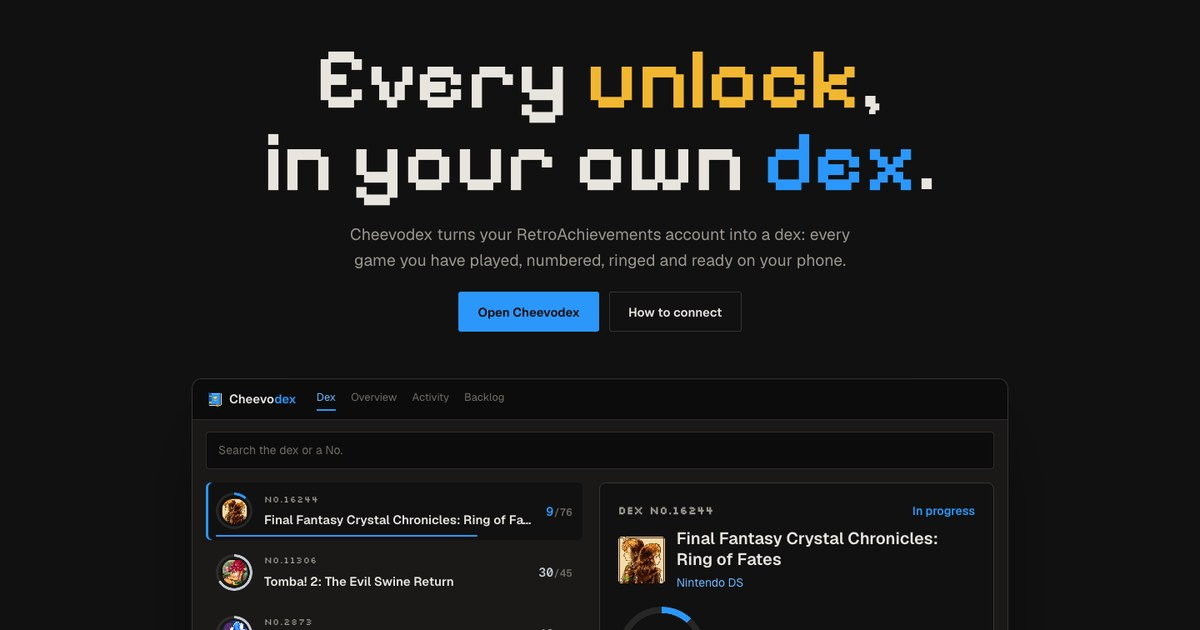
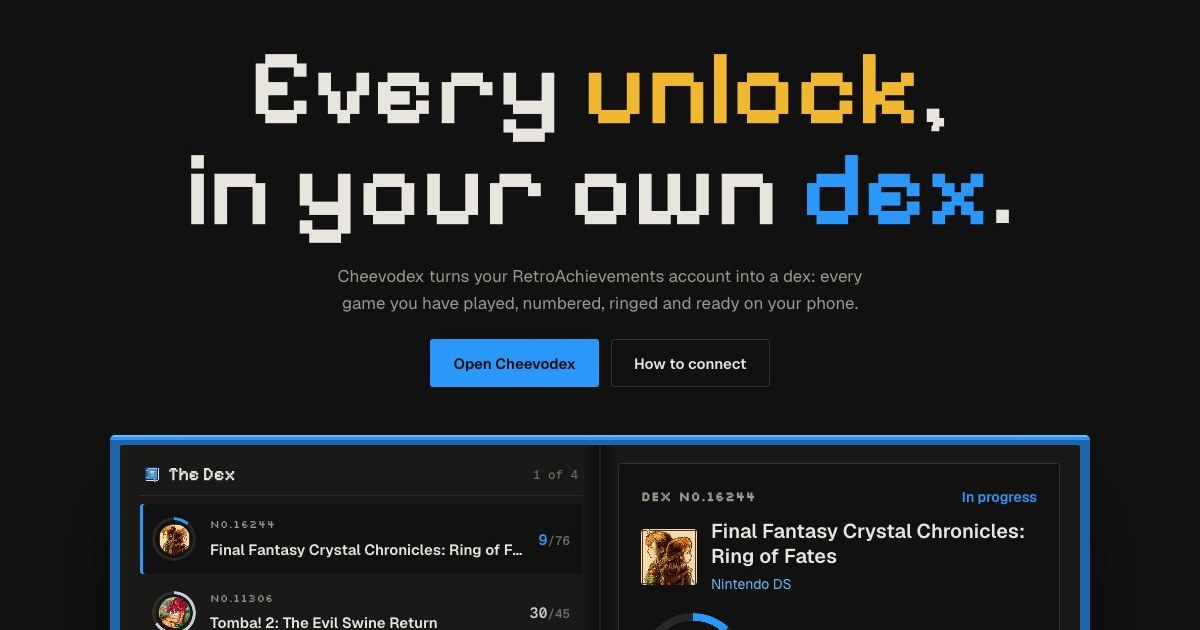
feat: redesign on the real screens: codex hero, Dex loupe, lit Setup path
- Hero: a bigger headline, the working dex set in an open codex (the
  app's mark opened up) in place of the mock app bar and search box,
  and three facts under it (key stays in the browser, no server, free)
- The Dex: the real screenshot with four marks and, on wide screens, a
  loupe in its corner showing each mark at full size from the same
  picture; it tours until one is picked. Phones show the phone
  screenshot, already at full size
- The Record: the three states are rings on a line to pick from
- The Recap: the real year panel (unlocks, streaks, heatmap) under the rows
- The Setup: one path down the middle that lights step by step on scroll
- A progression path beside the page on wide screens, and the nav marks
  the band on screen
- 3px corners like the app, no pills; the pixel face no longer joins
  f and i ("official" read as "oRicial")
- README: no ticker and no badge wall, the new moving parts, and how to
  re-measure the loupe's marks after retaking a screenshot
- Share image from the new hero

Claude-Session: https://claude.ai/code/session_01EeEDGzBuo9DGmypehCTFJi

diff --git a/src/styles/home.css b/src/styles/home.css
@@ -102,17 +102,6 @@
 .head-center { display: flex; flex-direction: column; align-items: center; gap: 18px; text-align: center; margin-bottom: 64px; }
 .head-center p.big { max-width: 30ch; }
 
-/* The Dex: the desktop screen across the band, the counts set into its corner */
-.screen { position: relative; margin: 0; }
-.screen-shot { width: 100%; border-radius: 8px; box-shadow: 0 40px 80px -30px rgb(4 20 40 / 0.6); }
-.screen-panel { display: grid; grid-template-columns: repeat(3, minmax(0, 1fr)); margin: 16px 0 0; background: #07121e; color: var(--ink); border-radius: 6px; overflow: hidden; }
-@media (min-width: 960px) { .screen-panel { position: absolute; left: -24px; bottom: -40px; width: 420px; margin: 0; box-shadow: 0 24px 48px -16px rgb(0 0 0 / 0.6); } }
-.screen-panel > div { padding: 16px 18px; border-left: 1px solid rgb(232 229 223 / 0.12); }
-.screen-panel > div:first-child { border-left: 0; }
-.screen-panel dt { color: var(--ink-2); font-size: 13px; }
-.screen-panel dd { margin: 6px 0 0; font: 600 36px/1 var(--mono); }
-.screen-panel > div:nth-child(1) dd { color: var(--accent-hi); } .screen-panel > div:nth-child(2) dd { color: var(--silver); } .screen-panel > div:nth-child(3) dd { color: var(--gold); }
-.screen-panel figcaption { grid-column: 1 / -1; padding: 12px 18px 14px; border-top: 1px solid rgb(232 229 223 / 0.12); color: var(--ink-2); font-size: 14px; }
 
 /* The Record: a manual page */
 .manual { display: grid; grid-template-columns: minmax(0, 1fr); gap: 32px; align-items: center; }
@@ -224,14 +213,6 @@
 /* B: the app frame around the working dex */
 .demo-app { max-width: 980px; margin: 0 auto; background: var(--box); border: 1px solid var(--line-2); border-radius: 12px; overflow: hidden; box-shadow: 0 40px 80px -30px rgb(0 0 0 / 0.85); }
 .demo-app .demo { background: none; border: 0; box-shadow: none; border-radius: 0; }
-.demo-bar { display: flex; align-items: center; gap: 24px; padding: 12px 18px; background: var(--bar); border-bottom: 1px solid var(--line); }
-.demo-brand { display: inline-flex; align-items: center; gap: 8px; font-weight: 700; font-size: 15px; }
-.demo-brand img { image-rendering: pixelated; }
-.demo-brand b { color: var(--accent); }
-.demo-tabs { display: flex; gap: 18px; font-size: 13px; color: var(--ink-3); }
-.demo-tabs .on { color: var(--accent-hi); box-shadow: 0 2px 0 var(--accent); padding-bottom: 3px; }
-@media (max-width: 560px) { .demo-tabs .wide { display: none; } .demo-bar { gap: 14px; } }
-.demo-search { margin: 14px 16px 0; padding: 10px 14px; border: 1px solid var(--line); border-radius: 4px; background: var(--well); color: var(--ink-3); font-size: 14px; }
 .demo-row .ring > img { position: relative; width: calc(100% - var(--w, 6px) * 2 - 6px); aspect-ratio: 1; border-radius: 50%; object-fit: cover; image-rendering: pixelated; }
 .demo-id2 { display: flex; gap: 14px; align-items: center; }
 .demo-id2 > span { display: flex; flex-direction: column; gap: 4px; min-width: 0; }
@@ -416,3 +397,122 @@
 /* The close */
 .close-cta { display: flex; flex-wrap: wrap; justify-content: center; gap: 12px; }
 .close-note { color: var(--ink-3); font-size: 15px; }
+
+/* ══ Redesign ══ */
+/* Geometry: the app's own 3px corners, no pills */
+.record, .demo-rec, .moved, .fp, .demo-row, .kl-node, .contents-swipe li, .cline, .shot, .fp-try input, .fp-run { border-radius: 3px; }
+
+/* The cover: a bigger headline, the dex as an open codex, three facts under it */
+.hero h1 { font-size: clamp(44px, 8.9vw, 128px); max-width: none; }
+.demo-app { position: relative; overflow: visible; padding: 10px 10px 14px; border: 0; border-radius: 5px 5px 4px 4px;
+            background: linear-gradient(180deg, #6cb8ff 0 2px, #2c97fa 2px 5px, #1d64a8 5px calc(100% - 7px), #123a63 0); }
+.demo-app .demo { position: relative; padding: 16px; gap: 20px; background: var(--box); border-radius: 2px; }
+@media (min-width: 860px) {
+    .demo-app .demo { grid-template-columns: minmax(0, 1fr) minmax(0, 1fr); gap: 36px; padding: 18px 20px; }
+    .demo-app .demo::after { content: ''; position: absolute; left: 50%; top: 0; bottom: 0; width: 34px; transform: translateX(-50%); pointer-events: none;
+                             background: linear-gradient(90deg, transparent, rgb(0 0 0 / 0.5) 46%, rgb(232 229 223 / 0.05) 50%, rgb(0 0 0 / 0.5) 54%, transparent); }
+}
+.codex-l { min-width: 0; display: flex; flex-direction: column; }
+.page-h { display: flex; justify-content: space-between; align-items: center; gap: 12px; padding: 2px 4px 12px; margin-bottom: 8px; border-bottom: 1px solid var(--line); }
+.page-brand { display: inline-flex; align-items: center; gap: 8px; font: 600 18px/1 var(--display); }
+.page-brand img { image-rendering: pixelated; }
+.page-h > span:last-child { color: var(--ink-3); font: 500 12.5px var(--mono); }
+.codex-ribbon { position: absolute; z-index: 0; right: 72px; bottom: -26px; width: 18px; height: 44px; background: var(--gold); clip-path: polygon(0 0, 100% 0, 100% 100%, 50% 78%, 0 100%); }
+.cover-facts { max-width: 980px; margin: 56px auto 0; display: grid; grid-template-columns: minmax(0, 1fr); gap: 10px 40px; }
+@media (min-width: 860px) { .cover-facts { grid-template-columns: repeat(3, minmax(0, 1fr)); } }
+.cover-facts > div { display: flex; align-items: baseline; gap: 8px; }
+.cover-facts dt { color: var(--ink-3); font-size: 14.5px; white-space: nowrap; }
+.cover-facts i { flex: 1; min-width: 12px; border-bottom: 1px dotted var(--line-2); transform: translateY(-4px); }
+.cover-facts dd { margin: 0; font-size: 14.5px; font-weight: 500; white-space: nowrap; }
+
+/* The Dex: the real screen, four marks on it, and a loupe set into its corner */
+.dexfig-stage { position: relative; }
+.dexfig-shot { position: relative; overflow: hidden; border-radius: 4px; background: var(--box); box-shadow: 0 40px 80px -30px rgb(4 20 40 / 0.6); }
+.dexfig-shot img { width: 100%; height: auto; }
+.spot { position: absolute; padding: 0; border: 0; background: none; border-radius: 3px; cursor: pointer; outline: 2px solid rgb(232 229 223 / 0.35); outline-offset: 5px;
+        transition: outline-color 300ms var(--ease), box-shadow 300ms var(--ease), background-color 300ms var(--ease); }
+.spot i { position: absolute; left: -22px; top: -22px; width: 22px; height: 22px; display: grid; place-items: center; border-radius: 50%; background: var(--page); border: 1px solid var(--line-2);
+          color: var(--ink-2); font: 600 12px/1 var(--mono); font-style: normal; transition: background-color 300ms var(--ease), color 300ms var(--ease), border-color 300ms var(--ease); }
+.spot.on { outline-color: var(--gold); box-shadow: 0 0 0 7px rgb(242 183 49 / 0.14), 0 0 26px 7px rgb(242 183 49 / 0.4); }
+.spot.on i { background: var(--gold); border-color: var(--gold); color: #1c1302; }
+.spot:focus-visible { outline-color: var(--accent-hi); }
+/* On a phone the screen is already at full size, so the loupe is for wider screens only */
+.loupe { display: none; margin-top: 14px; background: #07121e; color: var(--ink); border: 1px solid rgb(232 229 223 / 0.16); border-radius: 4px; overflow: hidden; box-shadow: 0 24px 48px -16px rgb(0 0 0 / 0.6); }
+@media (min-width: 760px) { .loupe { display: block; } }
+@media (min-width: 960px) { .loupe { position: absolute; left: -28px; bottom: -44px; width: 440px; margin: 0; } }
+.loupe-view { position: relative; height: 190px; container-type: size; overflow: hidden; background: var(--page); }
+.loupe-bg { position: absolute; inset: 0; background-repeat: no-repeat; background-size: calc(var(--z) * 100cqw) auto;
+            background-position: calc(50cqw - var(--cx) * var(--z) * 100cqw) calc(50cqh - var(--cy) * var(--z) * var(--ar) * 100cqw);
+            transition: background-position 800ms var(--ease), background-size 800ms var(--ease); }
+.loupe-cap { display: flex; align-items: center; gap: 10px; padding: 12px 14px; border-top: 1px solid rgb(232 229 223 / 0.12); }
+.loupe-cap i { width: 22px; height: 22px; display: grid; place-items: center; border-radius: 50%; background: var(--gold); color: #1c1302; font: 600 12px/1 var(--mono); font-style: normal; }
+.loupe-cap b { font: 600 19px/1 var(--display); }
+.loupe-x { margin-left: auto; color: var(--ink-3); font: 500 12px var(--mono); }
+.dexfig-legend { list-style: none; margin: 28px 0 0; padding: 0; display: grid; grid-template-columns: minmax(0, 1fr); }
+@media (min-width: 960px) { .dexfig-legend { grid-template-columns: repeat(4, minmax(0, 1fr)); gap: 28px; margin-top: 84px; } }
+.dexfig-legend button { position: relative; width: 100%; display: grid; grid-template-columns: 26px minmax(0, 1fr); gap: 6px 10px; align-items: center; padding: 16px 0; border: 0; border-top: 2px solid rgb(7 18 30 / 0.22);
+                        background: none; color: inherit; font: inherit; text-align: left; cursor: pointer; transition: border-color 200ms var(--ease); }
+.dexfig-legend i { width: 24px; height: 24px; display: grid; place-items: center; border-radius: 50%; border: 1.5px solid rgb(7 18 30 / 0.5); font: 600 12.5px/1 var(--mono); font-style: normal;
+                   transition: background-color 200ms var(--ease), color 200ms var(--ease); }
+.dexfig-legend b { font: 600 22px/1.15 var(--display); }
+.dexfig-legend span { grid-column: 2; font-size: 15.5px; line-height: 1.45; opacity: 0.82; }
+.dexfig-legend li.on button { border-top-color: #07121e; }
+.dexfig-legend li.on i { background: #07121e; border-color: #07121e; color: var(--accent-hi); }
+.dexfig-legend button:focus-visible { outline: 2px solid #07121e; outline-offset: 3px; }
+.dexfig.touring .dexfig-legend li.on button::after { content: ''; position: absolute; left: 0; right: 0; top: -2px; height: 2px; background: var(--ink); transform-origin: left; animation: tour 3600ms linear both; }
+
+/* The Record: the three states are rings on one line; pick one */
+.rec-pick { position: relative; gap: 0; width: fit-content; margin: -20px auto 44px; }
+.rec-pick::before { content: ''; position: absolute; left: 58px; right: 58px; top: 29px; height: 1px; background: linear-gradient(90deg, var(--accent), var(--silver), var(--gold)); }
+.rec-chip { position: relative; display: inline-flex; flex-direction: column; align-items: center; gap: 8px; min-height: 0; min-width: 116px; padding: 10px 14px; border: 1px solid transparent; border-radius: 3px; background: none; }
+.rec-chip .ring { background: var(--page); border-radius: 50%; }
+.rec-chip.on.s-mastered { color: var(--ink); background: rgb(242 183 49 / 0.12); }
+
+/* The Recap: the real year under the rows */
+.recap .year { margin: 0; min-width: 0; }
+@media (min-width: 960px) { .recap .year { grid-column: 1 / -1; } }
+.year-scroll { overflow-x: auto; border-radius: 4px; box-shadow: 0 30px 70px -20px rgb(40 26 0 / 0.5); }
+.year-scroll img { width: 100%; min-width: 760px; height: auto; border-radius: 4px; }
+.year figcaption { margin-top: 12px; font-size: 14px; opacity: 0.75; }
+
+/* The Setup: one path down the middle, lit as you scroll */
+.setup-path { --fill: 1; }
+.setup-path::before { background: linear-gradient(to bottom, var(--gold) 0, var(--accent) calc(var(--fill) * 100%), rgb(169 188 205 / 0.22) calc(var(--fill) * 100%)); }
+.setup-path li i, .setup-path li b, .setup-path li span, .setup-path li .btn { transition: opacity 400ms var(--ease), background-color 400ms var(--ease), border-color 400ms var(--ease), box-shadow 400ms var(--ease); }
+.setup-path.live li:not(.lit) i { background: #0d1a2a; border-color: rgb(169 188 205 / 0.5); box-shadow: none; }
+.setup-path.live li:not(.lit) b, .setup-path.live li:not(.lit) span, .setup-path.live li:not(.lit) .btn { opacity: 0.4; }
+@media (min-width: 960px) {
+    .setup-path { grid-template-columns: minmax(0, 1fr); gap: 0; max-width: 900px; margin-inline: auto; }
+    .setup-path::before { left: 50%; right: auto; top: 12px; bottom: 96px; width: 2px; height: auto; transform: translateX(-1px);
+                          background: linear-gradient(to bottom, var(--gold) 0, var(--accent) calc(var(--fill) * 100%), rgb(169 188 205 / 0.22) calc(var(--fill) * 100%)); }
+    .setup-path li { width: 50%; padding: 0 64px 64px 0; text-align: right; align-items: flex-end; }
+    .setup-path li:nth-child(even) { margin-left: 50%; padding: 0 0 64px 64px; text-align: left; align-items: flex-start; }
+    .setup-path li i { left: auto; right: -11px; top: 8px; }
+    .setup-path li:nth-child(even) i { left: -11px; right: auto; }
+    .setup-path li b { font-size: 36px; }
+    .setup-path li span { font-size: 17px; }
+    .setup-path li.goal { width: 100%; margin-left: 0; padding: 44px 0 0; align-items: center; text-align: center; }
+    .setup-path li.goal i { left: calc(50% - 11px); right: auto; top: 0; }
+}
+
+/* The Questions: the heading no longer runs into the list */
+.faq-head h2 { font-size: clamp(40px, 4.6vw, 64px); }
+
+/* The page's own progression: one diamond per band, gold once passed */
+.prog { display: none; }
+@media (min-width: 1340px) {
+    .prog { position: fixed; z-index: 30; left: 22px; top: 50%; transform: translateY(-50%); display: flex; flex-direction: column; gap: 20px; padding: 16px 11px;
+            background: rgb(12 12 12 / 0.88); border: 1px solid var(--line); border-radius: 3px; }
+    .prog::before { content: ''; position: absolute; left: 50%; top: 20px; bottom: 20px; width: 1px; background: var(--line-2); }
+    .prog a { position: relative; display: block; width: 9px; height: 9px; }
+    .prog a i { position: absolute; inset: 0; transform: rotate(45deg); background: var(--bar); border: 1px solid var(--ink-3); transition: background-color 300ms var(--ease), border-color 300ms var(--ease), box-shadow 300ms var(--ease); }
+    .prog a.done i { background: var(--gold); border-color: var(--gold-hi); }
+    .prog a.on i { background: var(--accent); border-color: var(--accent-hi); }
+    .prog a span { position: absolute; left: 24px; top: 50%; transform: translateY(-50%); padding: 5px 9px; background: var(--bar); border: 1px solid var(--line); border-radius: 3px;
+                   color: var(--ink); font-size: 13px; white-space: nowrap; opacity: 0; pointer-events: none; transition: opacity 200ms var(--ease); }
+    .prog a:hover span, .prog a:focus-visible span, .prog a.on span { opacity: 1; }
+}
+.nav-links a.on { color: var(--ink); box-shadow: 0 6px 0 -4px var(--accent); }
+
+/* The pixel face joins f and i into a shape that reads as another letter */
+h1, h2, h3, .faq-item summary, .dexfig-legend b, .loupe-cap b, .callouts button b, .cline-k, .setup-path li b, .kl-node, .contents-swipe b { font-variant-ligatures: none; }

diff --git a/src/components/DexFigure.tsx b/src/components/DexFigure.tsx
@@ -1,0 +1,68 @@
+// The Dex, read through a loupe. The figure is a real screenshot of the app; four callouts each mark a part of it
+// and the loupe in the corner shows that part at full size, from the same picture. It tours the four until the
+// visitor picks one. Phones get the phone screenshot and their own marks.
+import { useEffect, useRef, useState } from 'react';
+
+type Box = [number, number, number, number, number];   // x, y, w, h in screenshot pixels, then the loupe's zoom
+export type Spot = { key: string; name: string; text: string; desk: Box; phone: Box };
+type Shot = { src: string; full: string; w: number; h: number; alt: string };
+
+export default function DexFigure({ desk, phone, spots, crop }: { desk: Shot; phone: Shot; spots: Spot[]; crop: [number, number] }) {
+    const ref = useRef<HTMLDivElement>(null);
+    const [cur, setCur] = useState(0);
+    const [auto, setAuto] = useState(true);
+    const [seen, setSeen] = useState(false);
+    const [narrow, setNarrow] = useState(false);
+    useEffect(() => {
+        const mq = matchMedia('(max-width: 759px)');
+        const on = () => setNarrow(mq.matches);
+        on(); mq.addEventListener('change', on);
+        if (matchMedia('(prefers-reduced-motion: reduce)').matches) setAuto(false);
+        const io = new IntersectionObserver(([e]) => setSeen(e.isIntersecting), { threshold: 0.3 });
+        if (ref.current) io.observe(ref.current);
+        return () => { mq.removeEventListener('change', on); io.disconnect(); };
+    }, []);
+    useEffect(() => {
+        if (!auto || !seen) return;
+        const t = window.setTimeout(() => setCur(n => (n + 1) % spots.length), 3600);
+        return () => clearTimeout(t);
+    }, [cur, auto, seen, spots.length]);
+    const pick = (k: number) => { setAuto(false); setCur(k); };
+    const shot = narrow ? phone : desk;
+    const [top, tall] = narrow ? crop : [0, desk.h];       // the phone figure shows a band of the screen, not all of it
+    const box = (s: Spot) => (narrow ? s.phone : s.desk);
+    const b = box(spots[cur]);
+    return (
+        <div className={`dexfig ${auto && seen ? 'touring' : ''}`} ref={ref}>
+            <div className="dexfig-stage">
+                <div className="dexfig-shot" style={{ aspectRatio: `${shot.w} / ${tall}` }}>
+                    <img src={shot.src} alt={shot.alt} width={shot.w} height={shot.h} loading="lazy" style={{ marginTop: `${-top / shot.w * 100}%` }} />
+                    {spots.map((s, k) => {
+                        const [x, y, w, h] = box(s);
+                        return (
+                            <button key={s.key} type="button" className={`spot ${k === cur ? 'on' : ''}`} aria-label={s.name} aria-pressed={k === cur} onClick={() => pick(k)}
+                                style={{ left: `${x / shot.w * 100}%`, top: `${(y - top) / tall * 100}%`, width: `${w / shot.w * 100}%`, height: `${h / tall * 100}%` }}>
+                                <i>{k + 1}</i>
+                            </button>
+                        );
+                    })}
+                </div>
+                <div className="loupe" aria-hidden="true">
+                    <div className="loupe-view">
+                        <div className="loupe-bg" style={{ backgroundImage: `url(${shot.full})`, ['--cx' as string]: (b[0] + b[2] / 2) / shot.w, ['--cy' as string]: (b[1] + b[3] / 2) / shot.h, ['--z' as string]: b[4], ['--ar' as string]: shot.h / shot.w }} />
+                    </div>
+                    <div className="loupe-cap"><i>{cur + 1}</i><b>{spots[cur].name}</b><span className="loupe-x">at full size</span></div>
+                </div>
+            </div>
+            <ol className="dexfig-legend">
+                {spots.map((s, k) => (
+                    <li key={s.key} className={k === cur ? 'on' : ''}>
+                        <button type="button" aria-pressed={k === cur} onClick={() => pick(k)} onPointerEnter={e => { if (e.pointerType === 'mouse') pick(k); }} onFocus={() => pick(k)}>
+                            <i>{k + 1}</i><b>{s.name}</b><span>{s.text}</span>
+                        </button>
+                    </li>
+                ))}
+            </ol>
+        </div>
+    );
+}

diff --git a/src/components/HeroDemo.tsx b/src/components/HeroDemo.tsx
@@ -37,12 +37,10 @@ export default function HeroDemo({ entries, mark }: { entries: Entry[]; mark: st
     const path = e.path;
     return (
         <div className={`demo-app ${auto && !still ? 'touring' : ''} ${held ? 'held' : ''}`} onPointerEnter={() => setHeld(true)} onPointerLeave={() => setHeld(false)}>
-          <div className="demo-bar" aria-hidden="true">
-            <span className="demo-brand"><img src={mark} alt="" width="18" height="18" /><span>Cheevo<b>dex</b></span></span>
-            <span className="demo-tabs"><span className="on">Dex</span><span>Overview</span><span>Activity</span><span className="wide">Backlog</span></span>
-          </div>
-          <div className="demo-search" aria-hidden="true">Search the dex or a No.</div>
+          <span className="codex-ribbon" aria-hidden="true" />
           <div className="demo">
+            <div className="codex-l">
+            <div className="page-h" aria-hidden="true"><span className="page-brand"><img src={mark} alt="" width="16" height="16" />The Dex</span><span>{cur + 1} of {entries.length}</span></div>
             <ul className="demo-list" role="listbox" aria-label="Dex entries" aria-activedescendant={`de-${e.no}`}>
                 {entries.map((x, k) => {
                     const s = STATE[x.state];
@@ -65,6 +63,7 @@ export default function HeroDemo({ entries, mark }: { entries: Entry[]; mark: st
                     );
                 })}
             </ul>
+            </div>
             <div className={`demo-rec s-${e.state}`} key={e.no} aria-live="polite">
                 <div className="demo-rec-top">
                     <span className="dexno">Dex No.{e.no}</span>

diff --git a/src/components/RecordTour.tsx b/src/components/RecordTour.tsx
@@ -65,6 +65,7 @@ export default function RecordTour({ records }: { records: Rec[] }) {
             <div className="rec-pick" role="radiogroup" aria-label="Kind of record">
                 {records.map((x, k) => (
                     <button key={x.state} type="button" role="radio" aria-checked={sel === k} className={`rec-chip s-${x.state} ${sel === k ? 'on' : ''}`} onClick={() => setSel(k)}>
+                        <span className={`ring ${x.state === 'mastered' ? 'full' : ''}`} aria-hidden="true" style={{ ['--s' as string]: '36px', ['--w' as string]: '4px', ['--p' as string]: x.got / x.total * 100, ['--c' as string]: STATES[x.state].color }} />
                         {STATES[x.state].label}
                     </button>
                 ))}

diff --git a/README.md b/README.md
@@ -6,9 +6,9 @@ The app itself lives in its own repo and runs at <https://yozuryu.github.io/chee
 
 ## Stack
 
-[Astro](https://astro.build) with React for the parts that move or respond (the hero's working dex, the record tour, the recap rows, the friend-colour try-out and the contents tour), static HTML everywhere else.
+[Astro](https://astro.build) with React for the parts that move or respond (the hero's working dex, the Dex loupe, the record tour, the recap rows, the friends preview and the contents tour), static HTML everywhere else. Two more run from a small script in `src/layouts/Base.astro`: the Setup's path lighting as it scrolls, and the page's progression path (a side rail on wide screens, the nav links' marker everywhere).
 
-The page is paced like Playdate's (one idea per full-colour band, short headings with a full stop), opens on a small working dex in an app frame, and runs Analogue's ticker of the systems RetroAchievements covers; everything drawn is Cheevodex's own. The SEO head (canonical, Open Graph, Twitter card, JSON-LD) is in `src/layouts/Base.astro`; Astro writes the sitemap.
+The page is paced like Playdate's (one idea per full-colour band, short headings with a full stop) and opens on a small working dex set in an open codex, the app's mark opened up. No marquees, and no text-left, picture-right hero; everything drawn is Cheevodex's own. The SEO head (canonical, Open Graph, Twitter card, JSON-LD) is in `src/layouts/Base.astro`; Astro writes the sitemap.
 
 ```sh
 npm install
@@ -21,6 +21,8 @@ Pushing to `main` builds and deploys to GitHub Pages (`.github/workflows/deploy.
 ## Pictures
 
 Game icons, achievement badges and the author's avatar appear only inside previews of the app: real screenshots (`src/assets/shots/`, captured at 2x, converted to WebP at build), and the app pieces built on the page (`public/app-icons/`), showing what Cheevodex does. Badges and icons on RetroAchievements are made by its community and the games' publishers, so they are not used as decoration. `public/assets/og.jpg` is the 1200 x 630 share image, taken from the hero.
+
+The Dex band reads a real screenshot through a loupe. Its four marks (`spots` in `src/pages/index.astro`) are pixel positions measured on `d-dex.png` (1440 x 900) and `dex.png` (390 x 844): after retaking either screenshot, measure them again, or the marks drift off their targets. `src/assets/shots/year.png` is the year panel cut from `d-activity.png` (888, 620 to 2656, 1252 at 2x).
 
 ## Licence
 
